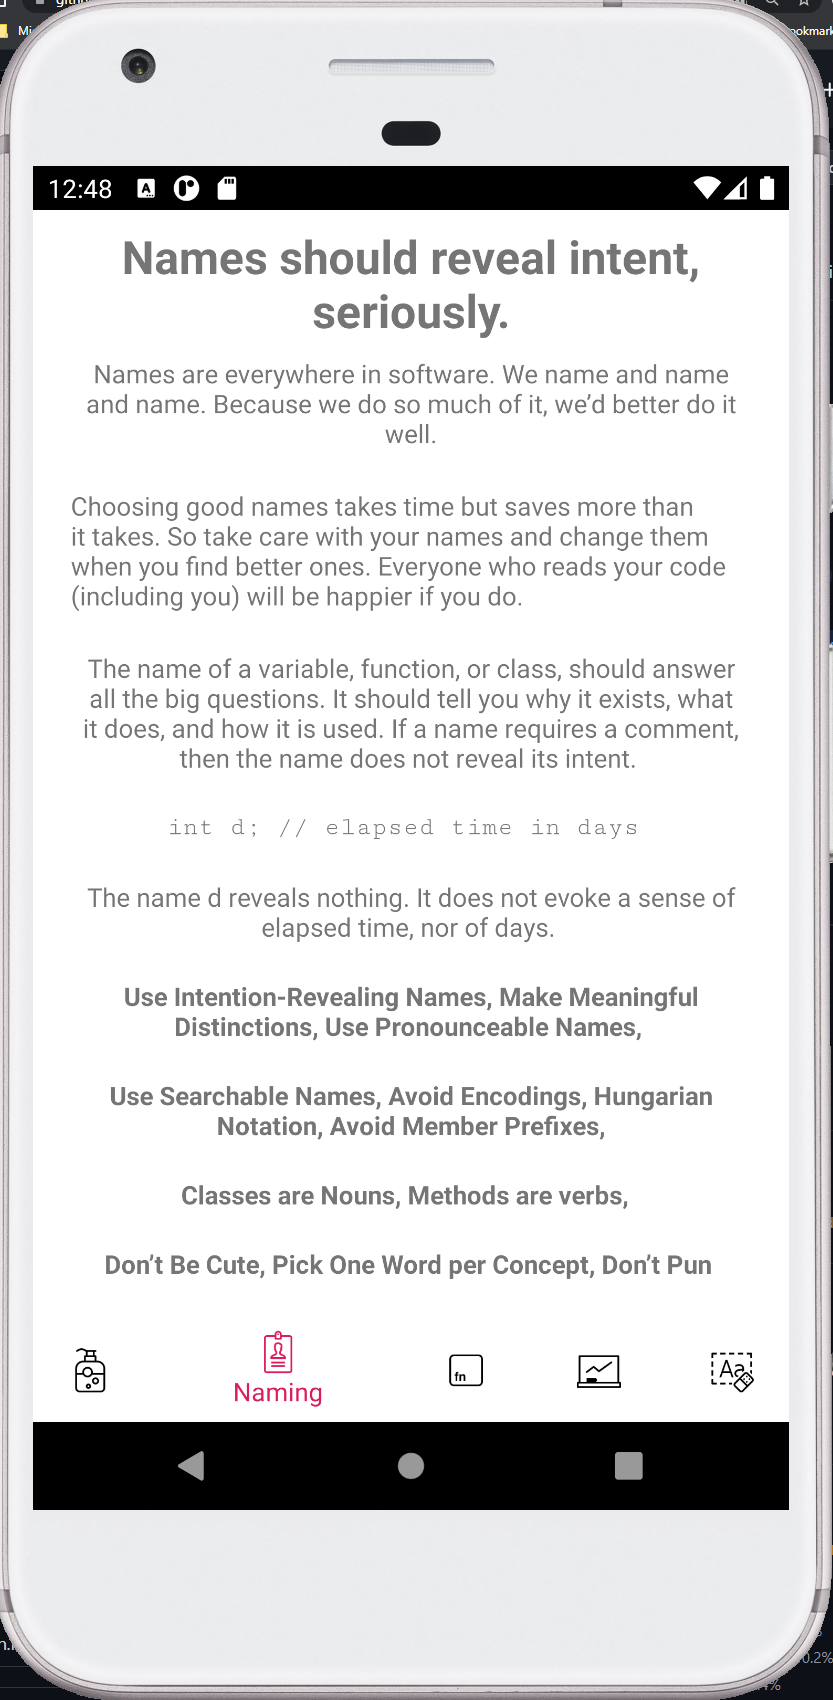
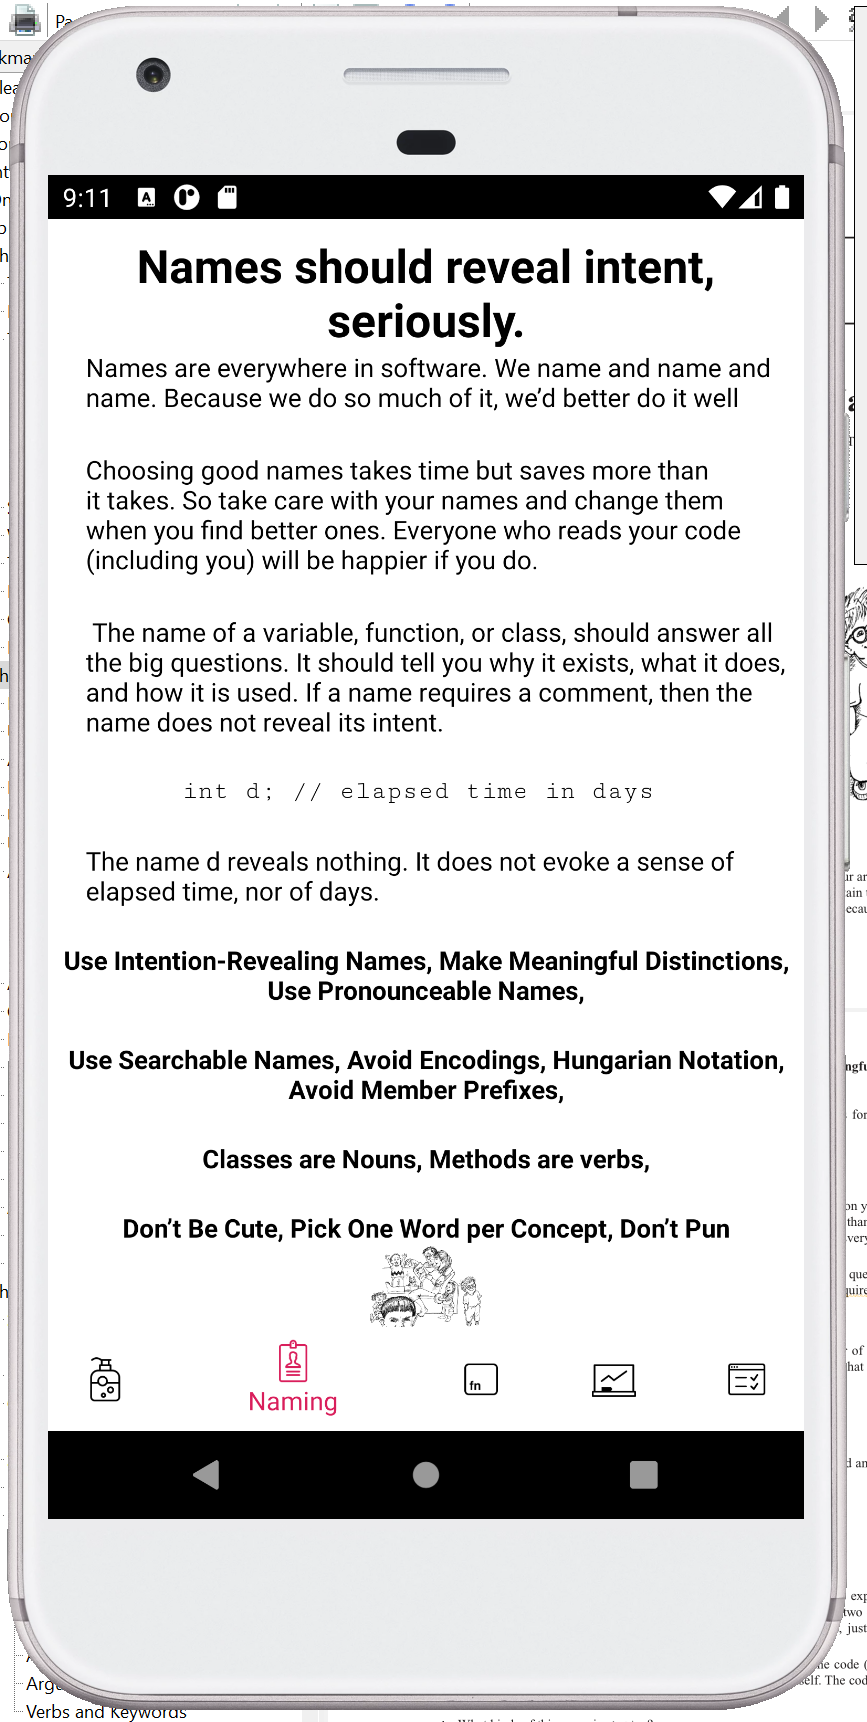
Mjmurtag/add book content (#15)
* start unit test page

* Finalize content.

* Finalize unit test content

* lint

* Polish, fix text on dark mode by explcitly setting text color

* Update readme and images

Changed region(s): [[0.0, 0.0, 1.0, 1.0]]

diff --git a/README.md b/README.md
@@ -6,10 +6,14 @@
 The project has been setup based off [react-native-typescript-boilerplate](https://github.com/AmitM30/react-native-typescript-boilerplate)
 
 ___
-## Introduction
+# Introduction
 
 An app to summarize some key sections of Robert C Martin's book 'Clean Code'. [Clean Code PDF](https://enos.itcollege.ee/~jpoial/oop/naited/Clean%20Code.pdf) 
 
+
+
+
+## Technical Details:
 - Routing and Navigation
   - Tabbed navigation using [React Native Navigation v7](https://github.com/wix/react-native-navigation)
   - Side Menu support
@@ -27,6 +31,83 @@ An app to summarize some key sections of Robert C Martin's book 'Clean Code'. [C
 
 | ![Loading](./src/view/assets/images/sample/LoadingScreen.PNG "Loading") | ![Opening](./src/view/assets/images/sample/OpeningScreen.PNG "Opening") |![WhyCleanCode](./src/view/assets/images/sample/WhyCleanCodeScreen.PNG "Why Clean Code") |
 | :-------------------------------------------------------: | :---------------------------------------------------: | :---------------------------------------------------: |
+
+| ![Naming](./src/view/assets/images/sample/NamingScreen.PNG "Naming") | ![Functions](./src/view/assets/images/sample/FunctionScreen.PNG "Function") |![Classes](./src/view/assets/images/sample/ClassScreen.PNG "Why Clean Code") |
+| :-------------------------------------------------------: | :---------------------------------------------------: | :---------------------------------------------------: |
+| ![Naming](./src/view/assets/images/sample/UnitTestScreen.PNG "Naming") | ![]( ) |![]() |
+
+
+# Clean Code Concepts Covered:
+## Why Clean Code? Be aware of the total cost of owning a mess.
+  'When hand-washing was ﬁrst recommended to physicians by Ignaz Semmelweis in 1847, it was rejected on the basis that doctors were too busy and wouldn’t have time to wash their hands between patient visits.',
+  'You have time to write clean code',
+
+  'Bjarne Stroustrup, inventor of C++ says:',
+  '"I like my code to be elegant and efﬁcient. The logic should be straightforward to make it hard for bugs to hide, the dependencies minimal to ease maintenance, error handling complete according to an articulated strategy, and performance close to optimal so as not to tempt people to make the code messy with unprincipled optimizations. Clean code does one thing well."',
+
+  'Without Clean Code, your teams\' productivity will suffer eventually.',
+
+  'Discover. Teach. Adcovate.'
+
+  ## Naming 
+  'Names should reveal intent, seriously.',
+
+  'Names are everywhere in software. We name and name and name. Because we do so much of it, we’d better do it well',
+  'Choosing good names takes time but saves more than it takes. So take care with your names and change them when you ﬁnd better ones. Everyone who reads your code (including you) will be happier if you do.',
+
+  ' The name of a variable, function, or class, should answer all the big questions. It should tell you why it exists, what it does, and how it is used. If a name requires a comment, then the name does not reveal its intent.',
+
+  `int d; // elapsed time in days`
+
+  ### The name d reveals nothing. It does not evoke a sense of elapsed time, nor of days
+  
+
+  #### Use Intention-Revealing Names, Make Meaningful Distinctions, Use Pronounceable Names
+
+  #### Use Searchable Names, Avoid Encodings, Hungarian Notation, Avoid Member Preﬁxes
+
+  #### Classes are Nouns, Methods are verbs,
+
+  Don’t Be Cute, Pick One Word per Concept, Don’t Pun
+## Functions - Small!
+
+  The ﬁrst rule of functions is that they should be small.
+
+   The second rule of functions is they should be smaller than that. 
+   
+   This is not an assertion that I can justify. I can’t provide any references to research that shows that very small functions are better.
+
+  'What experience has taught me, through long trial and error, is that functions should be very small.',
+
+  Do One Thing
+
+  One Level of Abstraction per Function
+
+  Reading Code from Top to Bottom: The Stepdown Rule: As code executes, it should ideally step down by one function at a time
+## Classes - Small!
+  The ﬁrst rule of classes is that they should be small. The second rule of classes is they should have a SINGLE responsibility.
+
+  This involves ensuring code is coherantly organized so others can understand what the intent of the code was.
+
+  Maintaining cohesion results in many small classes
+
+  Smaller functions and smaller classes go together. Code organization should allow future changes easily.
+
+  'Decoupling of logic promotes flexibility for the future.'
+## Unit Tests - The Three Laws of TDD
+  ### First Law
+
+  'You may not write production code unitl you have written a failing unit test.',
+  ### Second Law
+  'You may not write more of a unit test than is sufficient to fail, and not compiling is failing.',
+
+  ### Third Law
+  'You may not write more production code than is sufficient to pass the currently failing test',
+  ### Keep Tests Clean
+  'What makes a clean test? Three things. Readability, readability, and readability. Read- ability is perhaps even more important in unit tests than it is in production code.',
+
+  “Complexity kills. It sucks the life out of developers,it makes products difficult to plan, build, and test.” —Ray Ozzie, CTO, Microsoft Corporation
+];
 
 ### Table of Contents
 
